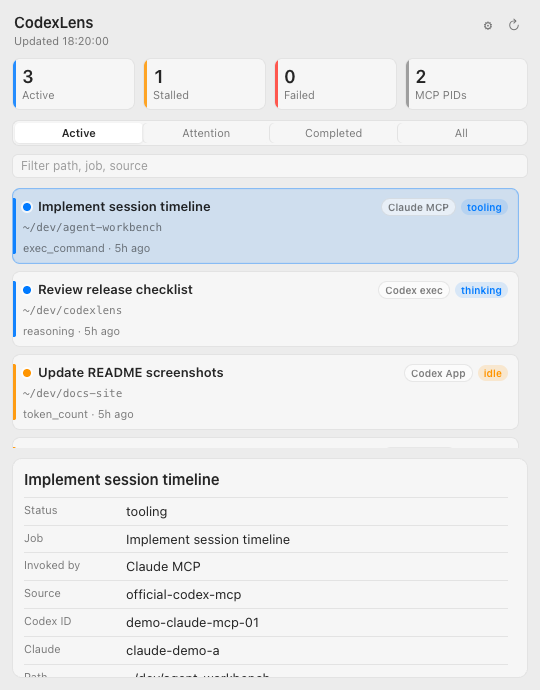
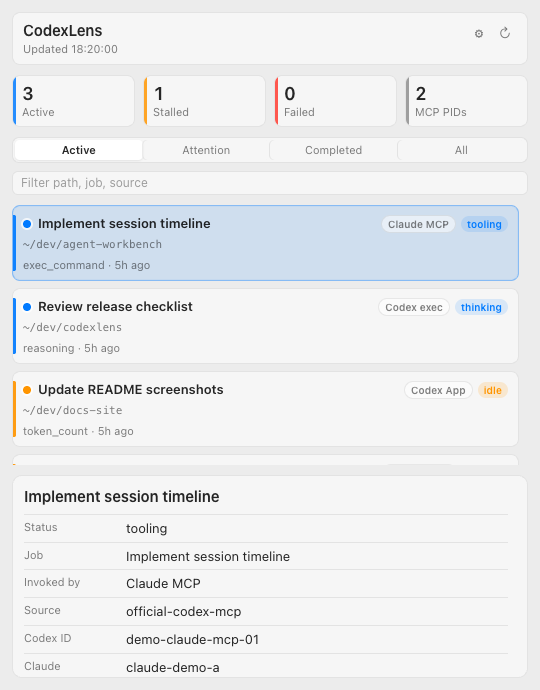
Back topbar and empty states with panels for vibrancy readability
Adversarial review flagged text sitting directly on the vibrancy
material (topbar title/status, run-list empty states) as potentially
unreadable over busy wallpapers. Both now get the same translucent
panel treatment as the rest of the UI.

diff --git a/src/renderer/styles.css b/src/renderer/styles.css
@@ -128,7 +128,10 @@ input:focus-visible,
   align-items: flex-start;
   justify-content: space-between;
   gap: 12px;
-  padding: 1px 2px 0;
+  padding: 8px 10px;
+  background: var(--panel-surface);
+  border: 1px solid var(--hairline);
+  border-radius: var(--radius-card, 10px);
 }
 
 .topbar-actions {
@@ -803,6 +806,15 @@ h1 {
 .empty {
   color: var(--text-secondary);
   font-size: 12px;
+}
+
+/* Empty states in the run list sit directly on the vibrancy material, so
+   back them with a panel to stay readable over any wallpaper. */
+.run-list > .empty {
+  background: var(--panel-surface);
+  border: 1px solid var(--hairline);
+  border-radius: var(--radius-card, 10px);
+  padding: 12px;
 }
 
 .detail h2 {